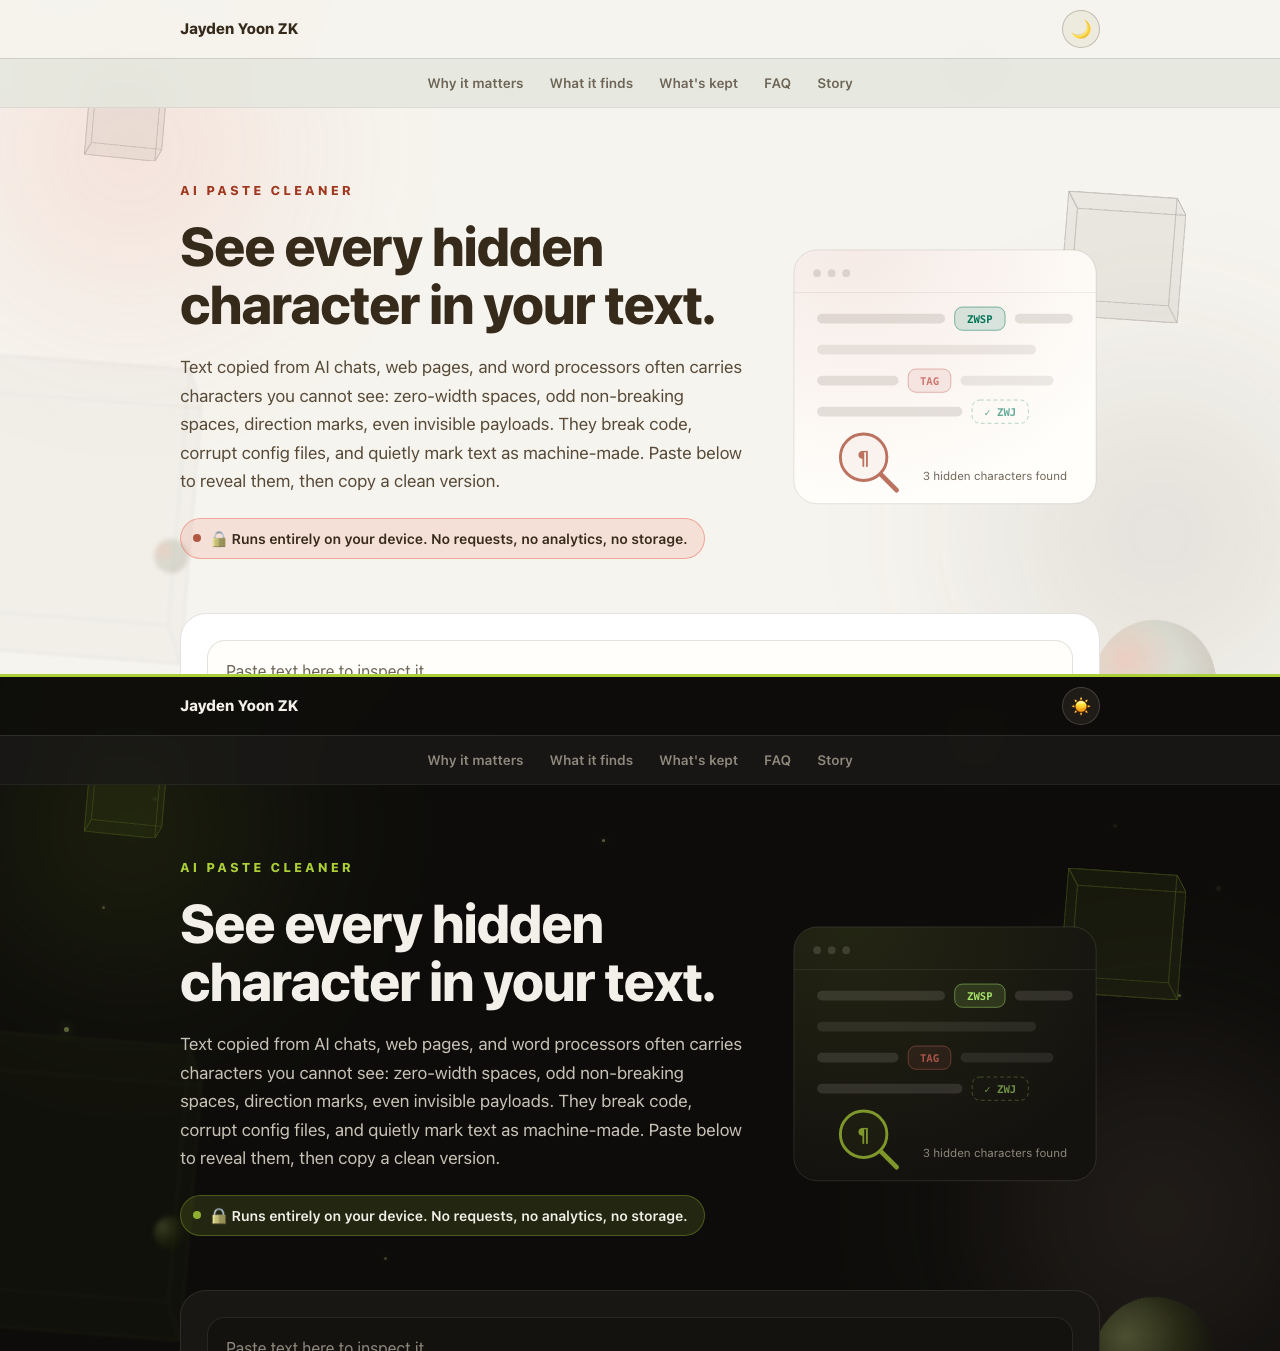
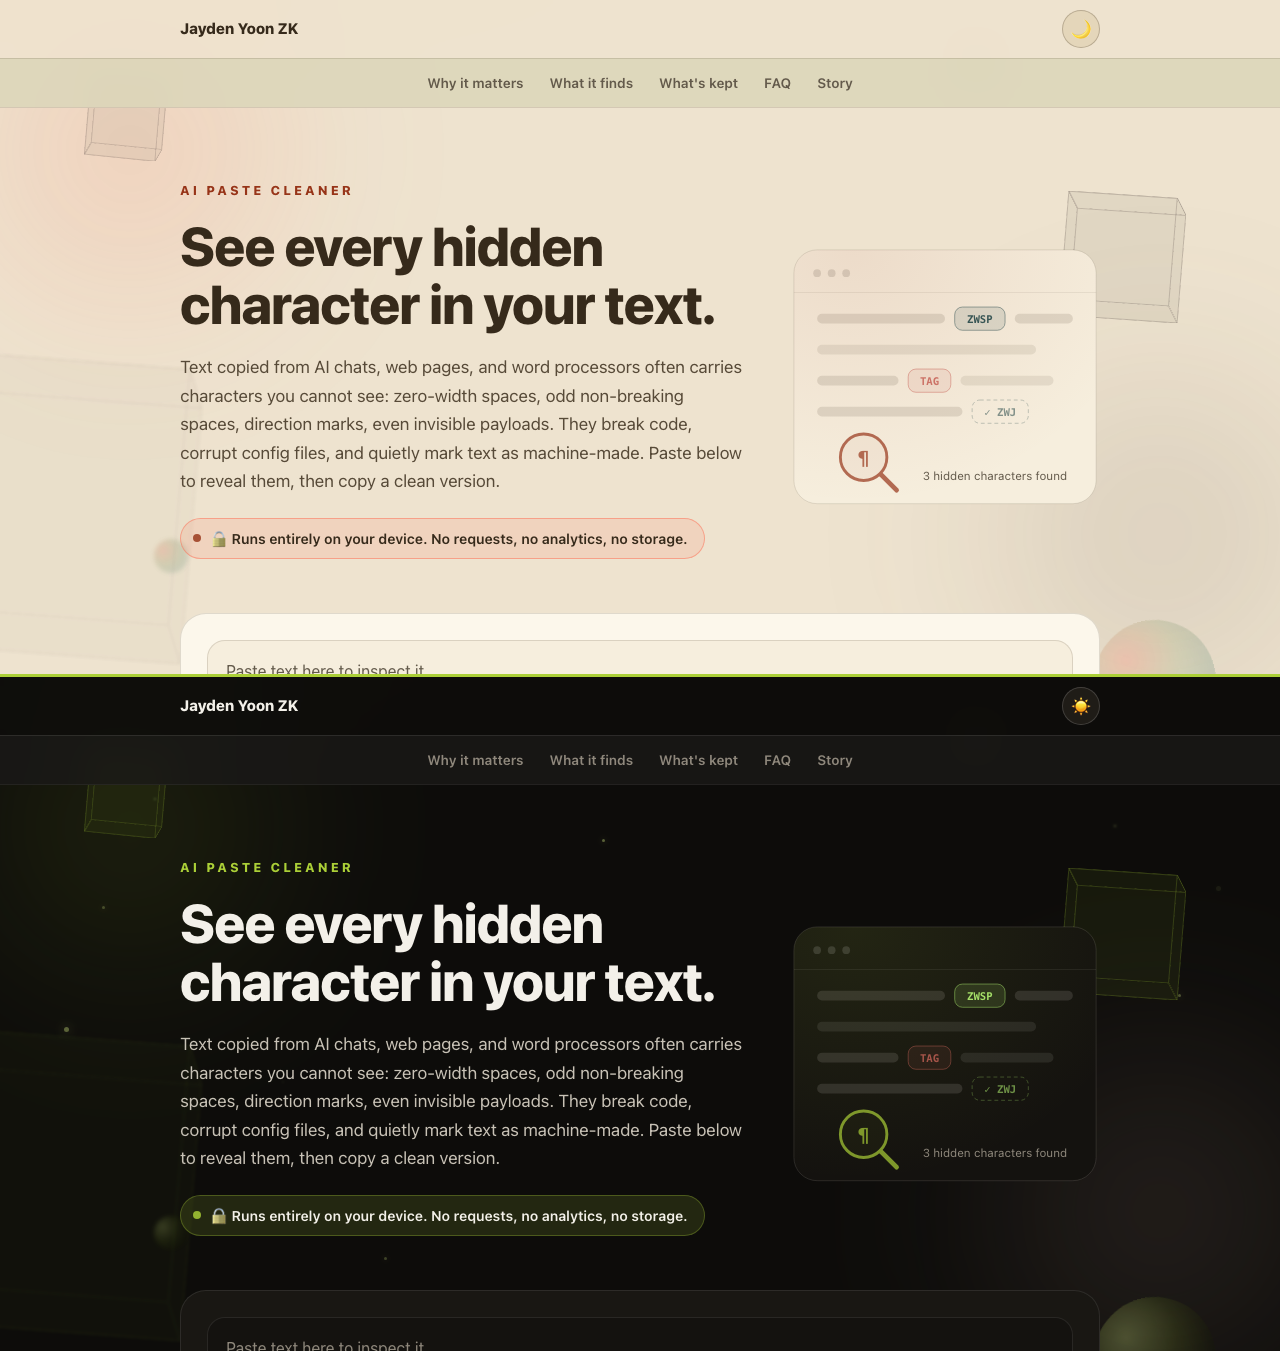
Adopt the studio light palette (v1.4.3)
Light mode adopts the palette chosen from design references: sand
background, warm ivory cards, coral primary buttons with dark ink text,
sage and gold and teal washes under the verdict pills, dark green and
indigo as their text colors, and a coral, sage, and teal decorative
scene. Every rendered text pair measures 4.5:1 or better. Dark theme
untouched. README preview regenerated.

diff --git a/docs/styles.css b/docs/styles.css
@@ -505,32 +505,32 @@ button:focus-visible, a:focus-visible { outline: 2px solid var(--accent); outlin
 /* Light theme */
 html[data-theme="light"] {
   color-scheme: light;
-  --bg: #f6f4ee;
-  --bg-raise: #fffefb;
-  --panel: #ffffff;
-  --panel-2: #edeade;
-  --line: rgba(30, 24, 12, 0.12);
-  --line-strong: rgba(30, 24, 12, 0.22);
+  --bg: #eee3cf;
+  --bg-raise: #f6eedd;
+  --panel: #fcf7eb;
+  --panel-2: #e4d6ba;
+  --line: rgba(58, 45, 28, 0.15);
+  --line-strong: rgba(58, 45, 28, 0.26);
   --ink: #362a1b;
   --ink-soft: #574a38;
-  --ink-mute: #6e6556;
-  --accent: #a03920;
-  --accent-soft: rgba(232, 96, 76, 0.14);
-  --green: #03765a; --green-soft: rgba(190, 203, 182, 0.3);
-  --amber: #b83c08; --amber-soft: rgba(255, 159, 10, 0.14);
-  --red: #b3261e; --red-soft: rgba(255, 69, 58, 0.1);
-  --blue: #1d63c4; --blue-soft: rgba(10, 132, 255, 0.11);
-  --nav-bg: rgba(246, 244, 238, 0.85);
-  --subnav-bg: rgba(143, 163, 135, 0.14);
+  --ink-mute: #635a4b;
+  --accent: #973418;
+  --accent-soft: rgba(254, 110, 84, 0.14);
+  --green: #375554; --green-soft: rgba(147, 168, 108, 0.32);
+  --amber: #aa3805; --amber-soft: rgba(252, 219, 153, 0.5);
+  --red: #b3261e; --red-soft: rgba(255, 69, 58, 0.12);
+  --blue: #363d6e; --blue-soft: rgba(64, 165, 160, 0.18);
+  --nav-bg: rgba(238, 227, 207, 0.85);
+  --subnav-bg: rgba(147, 168, 108, 0.18);
 }
 html[data-theme="light"] body {
-  background-image: radial-gradient(1100px 500px at 15% -5%, rgba(232, 110, 80, 0.1), transparent 60%);
+  background-image: radial-gradient(1100px 500px at 15% -5%, rgba(249, 201, 11, 0.12), transparent 60%);
 }
-html[data-theme="light"] .to-top { background: var(--accent); border-color: var(--accent); color: #ffffff; }
-html[data-theme="light"] .to-top:hover { background: #8a3019; border-color: #8a3019; }
-html[data-theme="light"] button.primary { background: var(--accent); border-color: var(--accent); color: #ffffff; }
-html[data-theme="light"] button.primary:hover { background: #8a3019; box-shadow: 0 6px 22px rgba(160, 57, 32, 0.35); }
-html[data-theme="light"] .privacy { border-color: rgba(232, 96, 76, 0.45); }
+html[data-theme="light"] .to-top { background: #fe6e54; border-color: #fe6e54; color: #362a1b; }
+html[data-theme="light"] .to-top:hover { background: #fe7a61; border-color: #fe7a61; }
+html[data-theme="light"] button.primary { background: #fe6e54; border-color: #fe6e54; color: #362a1b; }
+html[data-theme="light"] button.primary:hover { background: #fe7a61; box-shadow: 0 6px 22px rgba(254, 110, 84, 0.4); }
+html[data-theme="light"] .privacy { border-color: rgba(254, 110, 84, 0.5); }
 
 /* Background scene: depth-of-field drift with scroll parallax */
 .bg-scene {
@@ -645,10 +645,10 @@ html[data-theme="light"] .star { opacity: 0 !important; animation: none; }
 .p11 { right: 17%; top: 52%; width: 30px; height: 30px; --sfac: 0.06; --depth: 7; --dxt: 31s; --dyt: 39s; --dxa: 16px; --dya: 20px; filter: blur(2px); opacity: 0.4; }
 
 html[data-theme="light"] .bg-scene { --face-bg: rgba(84, 71, 65, 0.05); --face-line: rgba(84, 71, 65, 0.3); }
-html[data-theme="light"] .orb-a { background: radial-gradient(circle, rgba(232, 96, 76, 0.16), transparent 65%); }
+html[data-theme="light"] .orb-a { background: radial-gradient(circle, rgba(254, 110, 84, 0.18), transparent 65%); }
 html[data-theme="light"] .orb-b { background: radial-gradient(circle, rgba(84, 71, 65, 0.14), transparent 65%); }
 html[data-theme="light"] .sph .inner {
-  background: radial-gradient(circle at 31% 28%, rgba(232, 120, 90, 0.5), rgba(143, 163, 135, 0.35) 42%, rgba(120, 80, 60, 0.25) 78%, transparent 100%);
+  background: radial-gradient(circle at 31% 28%, rgba(254, 110, 84, 0.45), rgba(147, 168, 108, 0.4) 42%, rgba(64, 165, 160, 0.28) 78%, transparent 100%);
   box-shadow: inset -14px -12px 28px rgba(60, 60, 40, 0.18);
 }
 
@@ -749,6 +749,6 @@ button:disabled { pointer-events: auto; }
    dark theme's chartreuse constants. */
 html[data-theme="light"] textarea:focus,
 html[data-theme="light"] input[type="text"]:focus,
-html[data-theme="light"] input[type="search"]:focus { border-color: rgba(232, 96, 76, 0.55); }
-html[data-theme="light"] button:not(.primary):not(:disabled):hover { border-color: rgba(160, 57, 32, 0.45); }
-html[data-theme="light"] .chip.ok { border-color: rgba(3, 118, 90, 0.4); }
+html[data-theme="light"] input[type="search"]:focus { border-color: rgba(254, 110, 84, 0.6); }
+html[data-theme="light"] button:not(.primary):not(:disabled):hover { border-color: rgba(151, 52, 24, 0.45); }
+html[data-theme="light"] .chip.ok { border-color: rgba(55, 85, 84, 0.45); }

diff --git a/docs/index.html b/docs/index.html
@@ -28,14 +28,14 @@
       document.documentElement.dataset.theme = t;
     })();
   </script>
-  <link rel="stylesheet" href="styles.css?v=1.4.2">
+  <link rel="stylesheet" href="styles.css?v=1.4.3">
   <script type="application/ld+json">
   {
     "@context": "https://schema.org",
     "@type": "SoftwareApplication",
     "name": "AI Paste Cleaner",
     "applicationCategory": "UtilitiesApplication",
-    "softwareVersion": "1.4.2",
+    "softwareVersion": "1.4.3",
     "operatingSystem": "Any (browser-based)",
     "url": "https://jaydenyoonzk.github.io/ai-paste-cleaner/",
     "offers": { "@type": "Offer", "price": "0", "priceCurrency": "USD" },
@@ -266,6 +266,6 @@
 </footer>
 
 <button id="to-top" class="to-top" type="button" aria-label="Back to top">&#8593;</button>
-<script type="module" src="app.js?v=1.4.2"></script>
+<script type="module" src="app.js?v=1.4.3"></script>
 </body>
 </html>

diff --git a/docs/app.js b/docs/app.js
@@ -1,4 +1,4 @@
-import { analyze, clean, CATEGORIES, DEFAULT_OPTIONS } from "./cleaner.js?v=1.4.2";
+import { analyze, clean, CATEGORIES, DEFAULT_OPTIONS } from "./cleaner.js?v=1.4.3";
 
 const $ = (id) => document.getElementById(id);
 const input = $("input");

diff --git a/CHANGELOG.md b/CHANGELOG.md
@@ -3,6 +3,13 @@
 All notable changes to this project are documented here.
 The format is based on [Keep a Changelog](https://keepachangelog.com/en/1.1.0/).
 
+## [1.4.3] - 2026-07-10
+
+### Changed
+
+- Light mode now uses the studio palette chosen from design references: sand background #EEE3CF, warm ivory cards, coral #FE6E54 primary buttons with dark ink text (mirroring dark mode's dark-on-chartreuse buttons), a deep coral accent for links and highlights, sage #93A86C washes with the dark green #375554 as success text, a pale gold #FCDB99 wash under warning pills, teal #40A5A0 washes with indigo #363D6E as info text, and a coral, sage, and teal decorative scene. Every rendered text pair measures 4.5:1 or better on the live page, and the dark theme is untouched.
+- The README preview is regenerated for the new palette.
+
 ## [1.4.2] - 2026-07-10
 
 ### Changed
@@ -158,6 +165,7 @@ First stable release.
 - 21 Node test cases covering the risky preservation paths.
 - `?demo` URL parameter that loads a representative sample.
 
+[1.4.3]: https://github.com/JaydenYoonZK/ai-paste-cleaner/releases/tag/v1.4.3
 [1.4.2]: https://github.com/JaydenYoonZK/ai-paste-cleaner/releases/tag/v1.4.2
 [1.4.1]: https://github.com/JaydenYoonZK/ai-paste-cleaner/releases/tag/v1.4.1
 [1.4.0]: https://github.com/JaydenYoonZK/ai-paste-cleaner/releases/tag/v1.4.0
